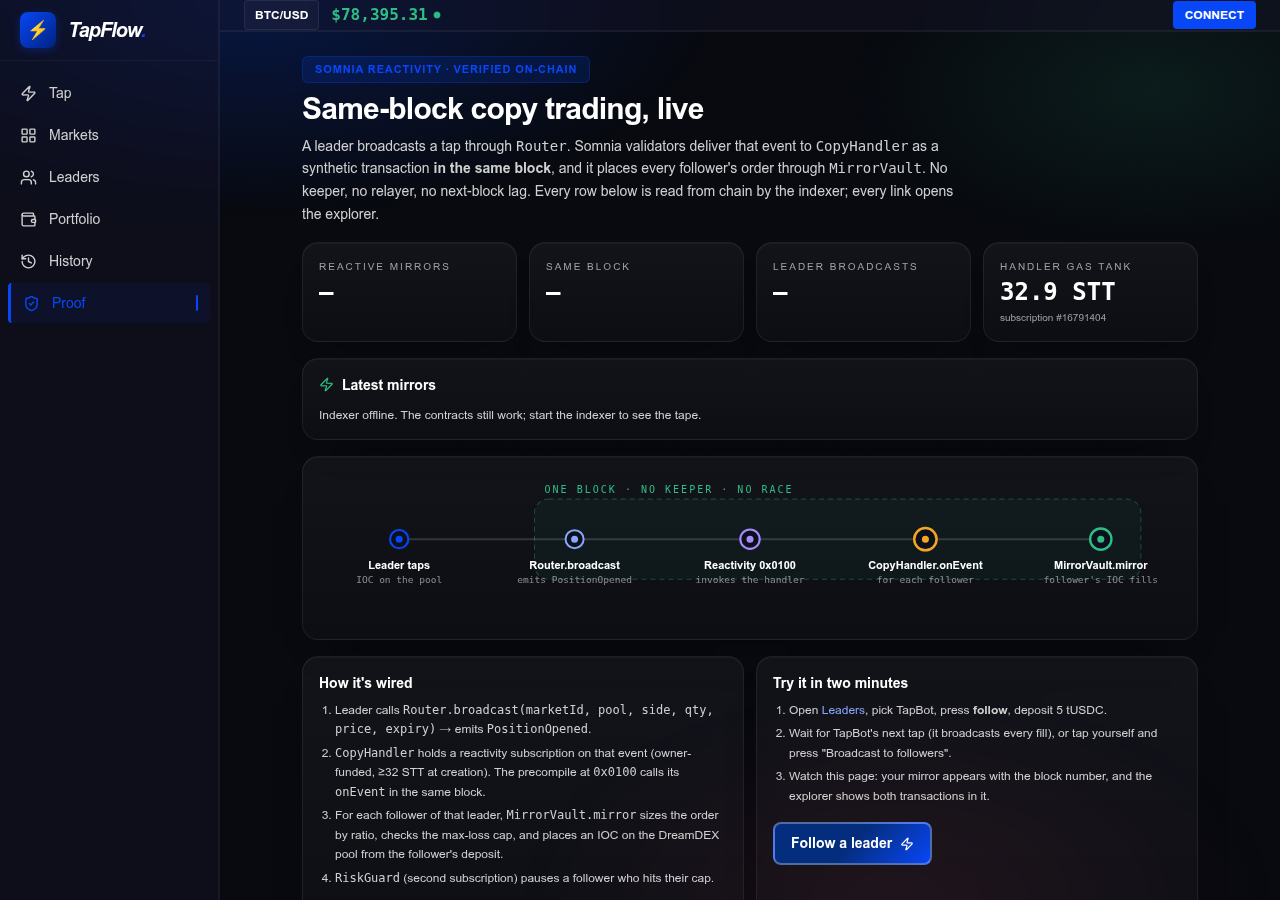
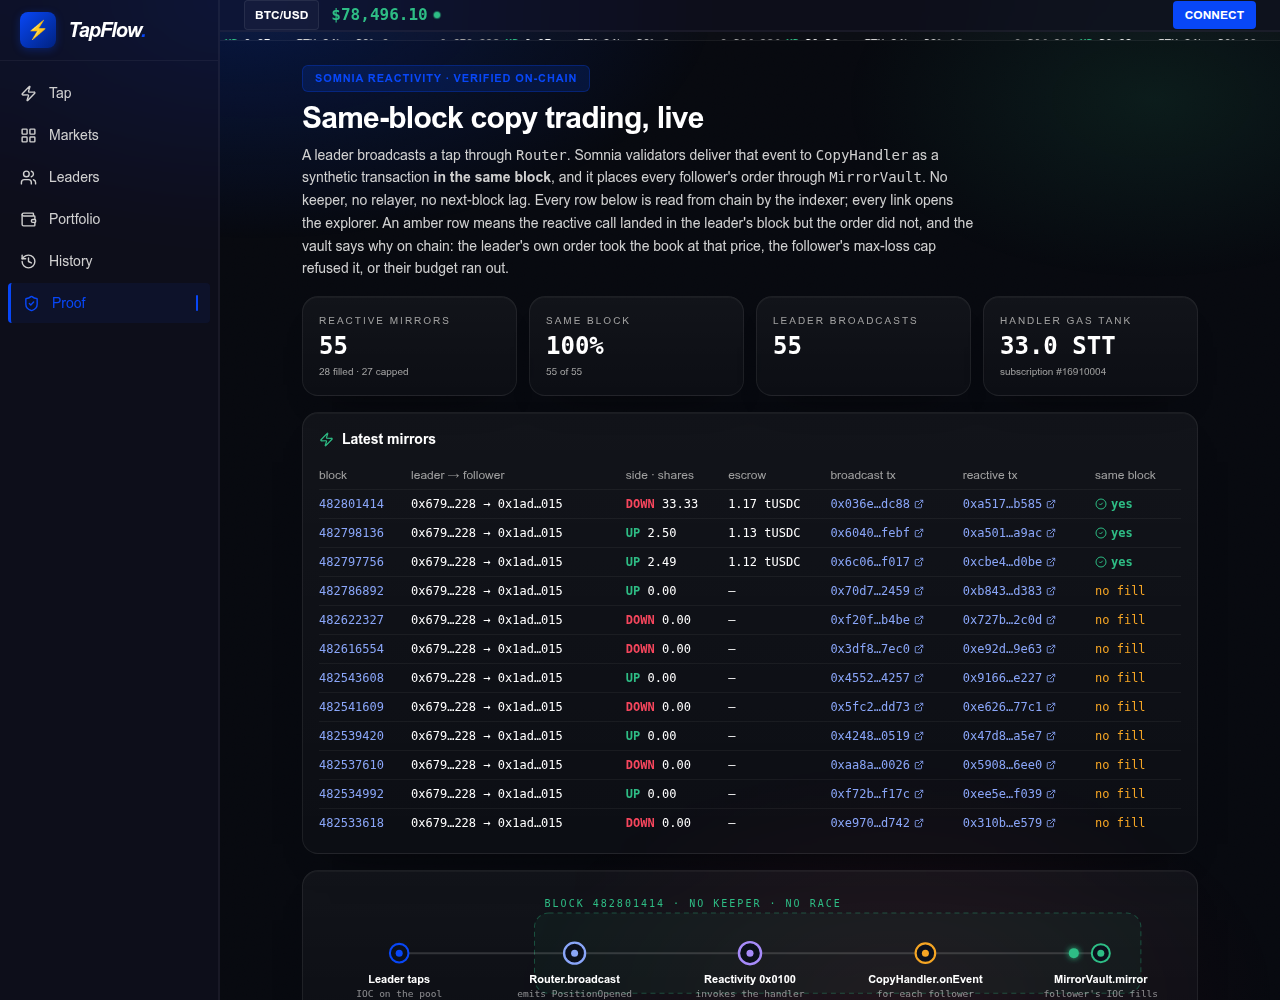
proof: tile wording matches the per-row reasons; README mirror counts

diff --git a/src/ProofView.tsx b/src/ProofView.tsx
@@ -67,7 +67,7 @@ export const ProofView: React.FC = () => {
         </div>
 
         <div className="grid grid-cols-2 sm:grid-cols-4 gap-3">
-          <Tile label="reactive mirrors" value={proof ? proof.mirrors : "—"} hint={proof ? `${proof.successful} filled · ${proof.mirrors - proof.successful} capped` : undefined} />
+          <Tile label="reactive mirrors" value={proof ? proof.mirrors : "—"} hint={proof ? `${proof.successful} filled · ${proof.mirrors - proof.successful} placed nothing` : undefined} />
           <Tile label="same block" value={pct !== null ? `${pct}%` : "—"} hint={proof ? `${proof.sameBlock} of ${proof.mirrors}` : undefined} />
           <Tile label="leader broadcasts" value={proof ? proof.broadcasts : "—"} />
           <Tile label="handler gas tank" value={handlerBal.data ? `${(Number(handlerBal.data.value) / 1e18).toFixed(1)} STT` : "—"} hint={sub.data !== undefined ? `subscription #${String(sub.data)}` : COPY.subscription ? `subscription #${COPY.subscription}` : undefined} />

diff --git a/README.md b/README.md
@@ -46,7 +46,7 @@ Prediction markets are solo and clunky: connect, approve, read an order book, si
 | **+** | Embeddable tap card | ✅ live | [/embed/BTC/4h](https://tapflow-phi.vercel.app/embed/BTC/4h) — any Somnia dapp drops one live window into an iframe (copy the snippet from any Markets card); same real orders |
 | **+** | `npm run doctor` | ✅ | one read-only screen: wallets, vault, handler gas tank, subscriptions, live books on the venue grid, indexer, site |
 
-Everything above runs against real Shannon transactions from wallet `0x6798…F228` (leader) and `0x1AD9…2015` (follower). Only the RiskGuard subscription is still pending: it needs another 32 STT, which is one more faucet claim away. The indexer has paired **51 of 51** reactive mirrors with their broadcast in the same block across v1, v2 and v3 (25 filled; the rest were skipped by the vault once the follower's 16 tUSDC was fully deployed, until the follower redeemed 7.33 tUSDC of winnings and mirrors resumed).
+Everything above runs against real Shannon transactions from wallet `0x6798…F228` (leader) and `0x1AD9…2015` (follower). Only the RiskGuard subscription is still pending: it needs another 32 STT, which is one more faucet claim away. The indexer has paired **55 of 55** reactive mirrors with their broadcast in the same block across v1 to v4. 28 filled. The 27 that placed nothing are the honest part: most were the bug v4 fixes (the leader's own order had taken the book at that price), and the proof page now shows the contract's own reason code for each one. Since v4 went live every mirror has filled.
 
 ## DreamDEX integration
 
@@ -136,9 +136,7 @@ Served by the indexer (`GET /api/stats`, `/api/leaderboard`, `/api/windows`, `/a
 
 | wallets | taps indexed | volume (tUSDC) | windows | reactive mirrors | same block |
 |---|---|---|---|---|---|
-| 156 | 1,418 | 25,679 | 200 | 51 | 51 of 51 |
-
-25 of those mirrors filled; the other 26 were declined by the vault because the follower's remaining budget or max-loss cap could not cover them — the reactive call still landed in the leader's block. That is the safety rail working, and it is visible on the proof page.
+| 156 | 1,418 | 25,679 | 200 | 55 | 55 of 55 |
 
 ## Architecture
 
